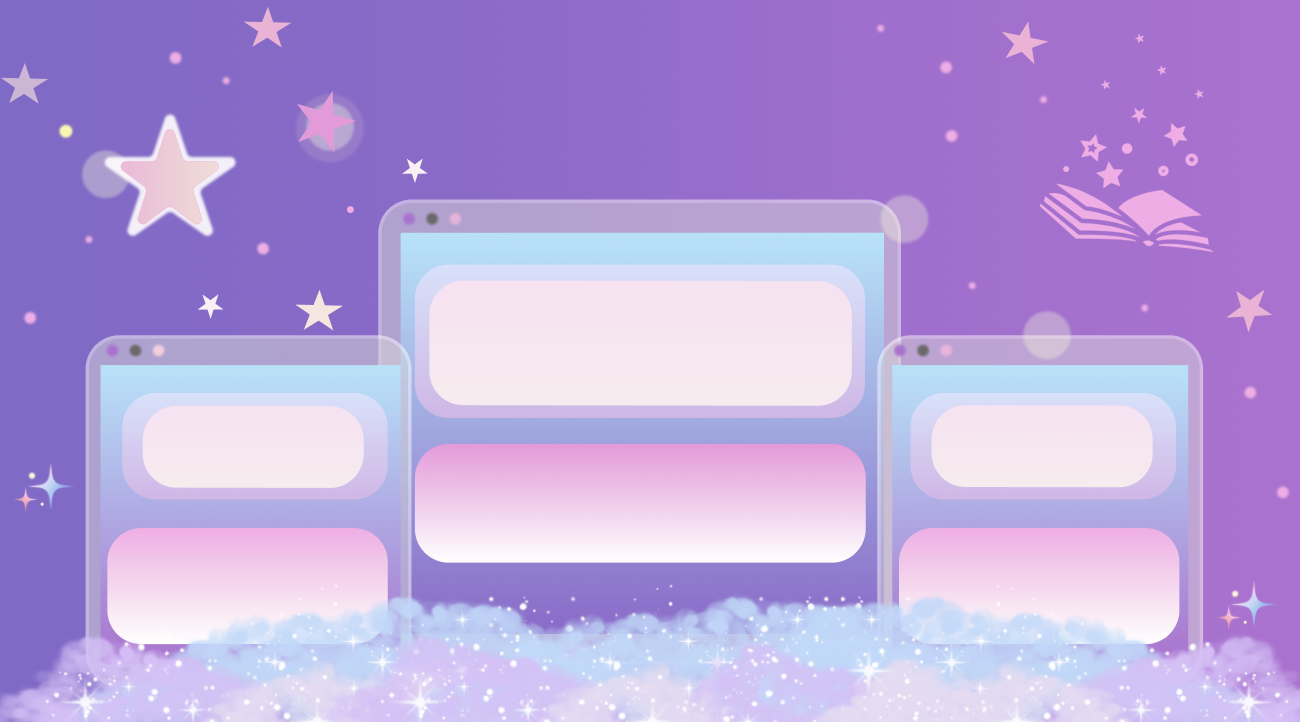
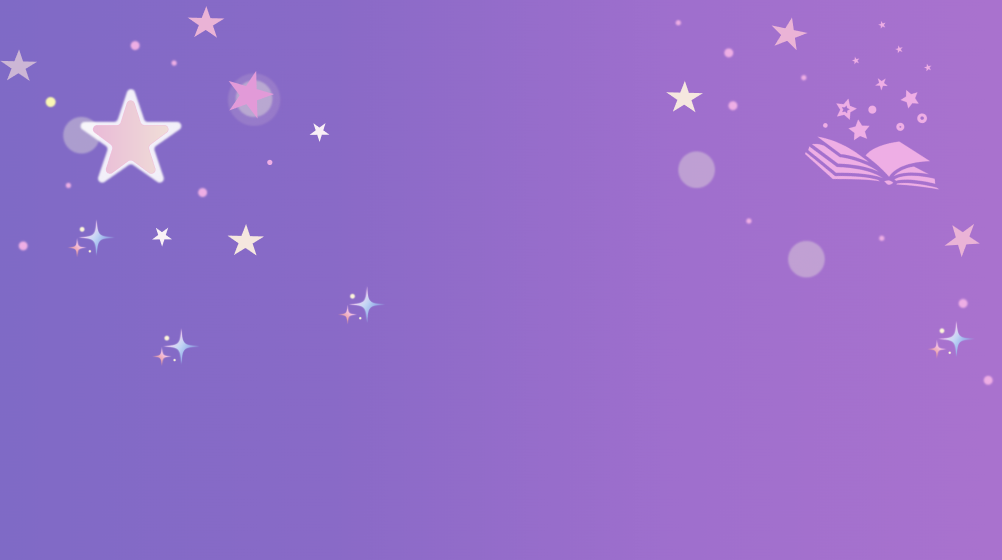
frontend

diff --git a/website/style.css b/website/style.css
@@ -1,23 +1,27 @@
+body{
+    box-sizing: border-box;
+    margin: 0;
+    padding: 0;
+}
+
 #background {
     background-image: url('images/background.png');
     background-size: cover;
     background-repeat: no-repeat;
     width: 100%;
     height: 100vh;
-    margin: 0;
     flex-direction: column; 
     align-items: center; 
     justify-content: center;
     text-align: center;
 }
-#background, img{
-    max-width: 100%;;
+img{
+    position: absolute;
 }
 .title{
-    font-size: 50px;
+    font-size: 60px;
     color: white;
     text-align: center;
-    padding-top: 30px;
 }
 .button{
     font-size: 30px;
@@ -36,19 +40,95 @@
     transition: 0.4s ease-in-out;
 }
 .bringo{
-    float: right;
-    margin-right: 7%;
-    margin-top: 10%;
+    z-index: 3;
+    justify-content: right;
     animation: animate 1s linear infinite;
+    margin-left: 15%;
+    margin-top: 10px;
+}
+.cloud{
+    bottom: 0;
+    left: 0;
+    width: 100vw;
+    z-index: 5;
+    transform: translateY(30px);
+}
+.windowset{
+    display: flex;
+    justify-content: center;
+    flex-direction: row;
 }
 @keyframes animate {
     0% {
-        margin-top: 10%;
+        margin-top: 6%;
     }
     50% {
-        margin-top: 12%;
+        margin-top: 8%;
     }
     100% {
-        margin-top: 10%;
+        margin-top: 6%;
     }
+}
+
+.window1{
+    width: 450px;
+    left: 65%;
+    margin-top: 7%;
+}
+.window2{
+    width: 700px;
+    z-index: -1;
+}
+.window3{
+    width: 450px;
+    left: 8%;
+    margin-top: 7%;
+}
+
+@media (max-width: 1600px) {
+    .bringo {
+       left: 45%;
+    }
+}
+
+@media (max-width: 1400px) {
+    .bringo {
+        left: 40%;
+    }
+}
+
+@media (max-width: 1200px) {
+    .bringo {
+        left: 35%;
+    }
+}
+
+@media (max-width: 1000px) {
+    .bringo {
+        left: 30%;
+    }
+}
+
+@media (max-width: 800px) {
+    .bringo {
+        left: 20%;
+        margin-left: 0;
+    }
+}
+
+@media (max-width: 600px) {
+    .bringo {
+        left: 10%;
+    }
+    .button{
+        background-color: white;
+        color:#B36FD4
+    }
+}
+
+@media (max-width: 400px){
+    .bringo {
+        left: 5%;
+    }
+   
 }

diff --git a/website/index.html b/website/index.html
@@ -8,14 +8,17 @@
     <link rel="stylesheet" href="style.css">
 </head>
 <body id="background">
-<<<<<<< HEAD
     <h1 class="title">STUDYLINGO</h1>
-=======
-    <h1 title"> STUDY MODE</h1>
->>>>>>> a4eadc407c36e92f2a7442326a90fe17180edbe2
     <p class="button">DOWNLOAD</p>
-    <div>
-        <img src="images/Bringo.png" class="bringo" alt="Bringo logo" width="400px">
+    <div class="image-container">
+        <img src="images/Bringo.png" class="bringo" alt="Bringo logo" width="450px">
+        <img src="images/cloud.png" class="cloud">
+        <div class="windowset">
+            <img src="images/window1.png" class="window1">
+            <img src="images/window1.png" class="window3">
+            <img src="images/window2.png" class="window2">
+            
+        </div>
     </div>
 </body>
 </html>
